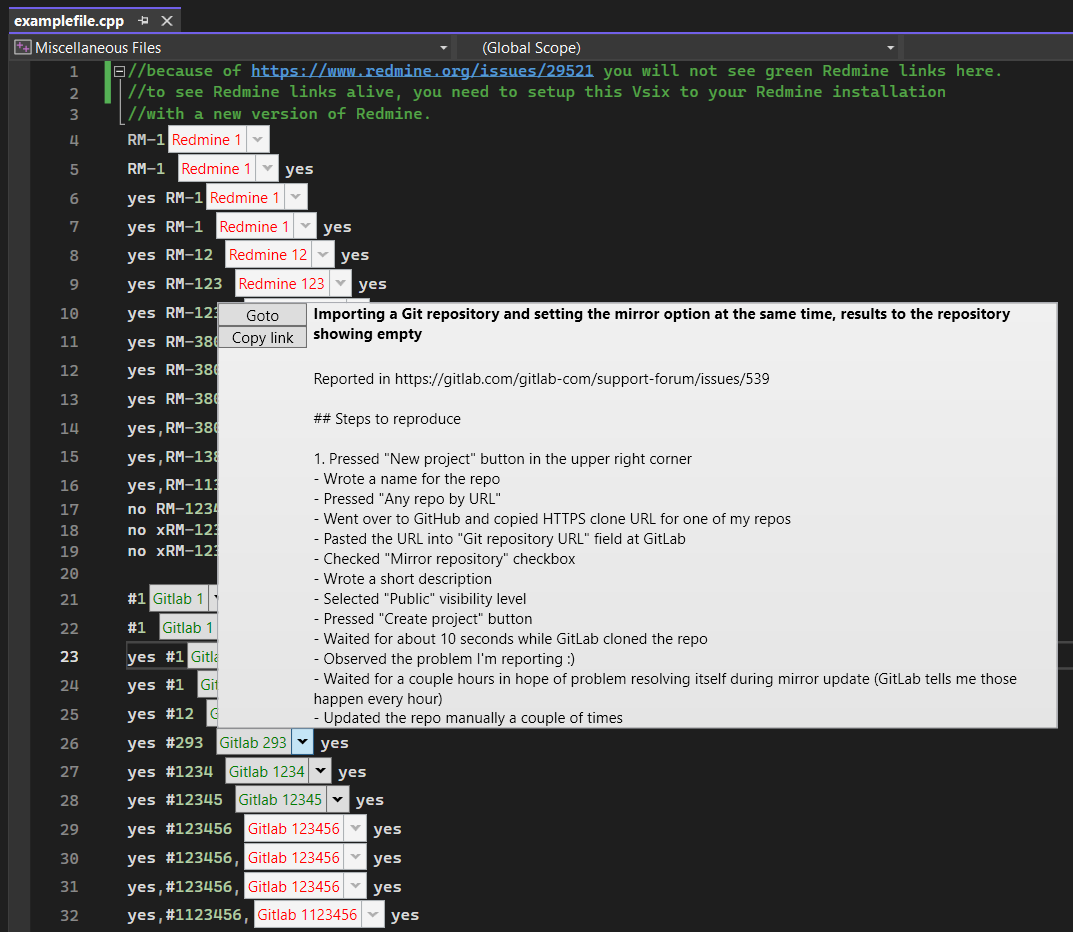
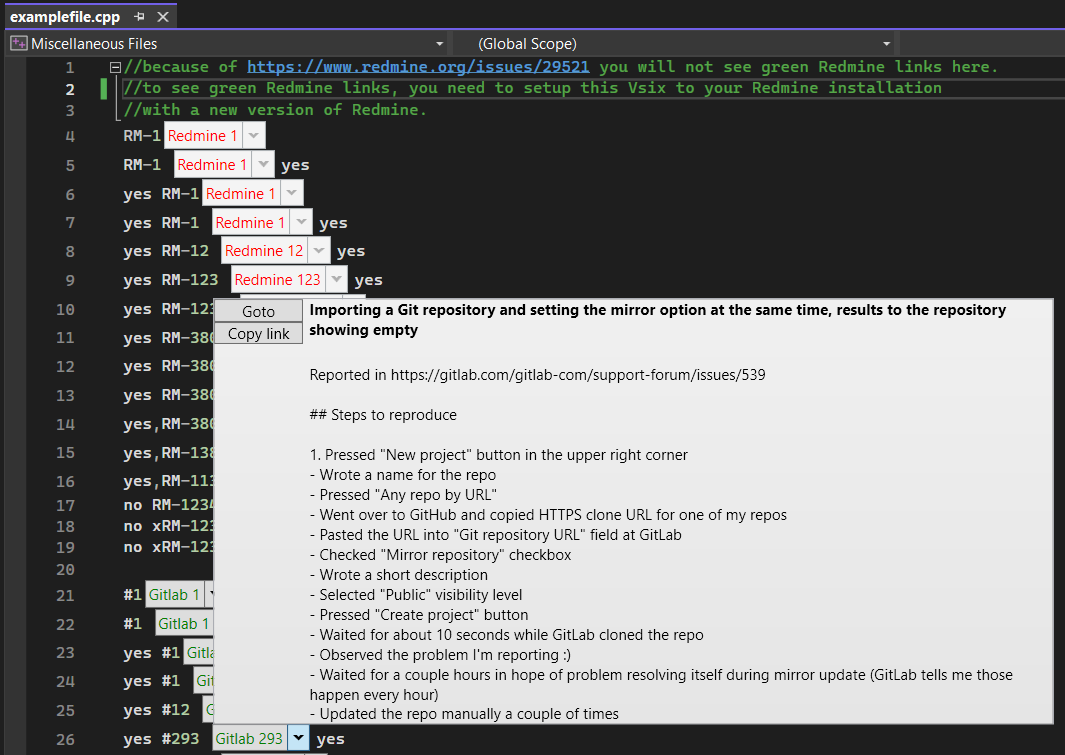
update image

diff --git a/BugTrackerPrompter/IssueLink/examplefile.cpp b/BugTrackerPrompter/IssueLink/examplefile.cpp
@@ -1,5 +1,5 @@
 //because of https://www.redmine.org/issues/29521 you will not see green Redmine links here.
-//to see Redmine links alive, you need to setup this Vsix to your Redmine installation
+//to see green Redmine links, you need to setup this Vsix to your Redmine installation
 //with a new version of Redmine.
 RM-1
 RM-1 yes
